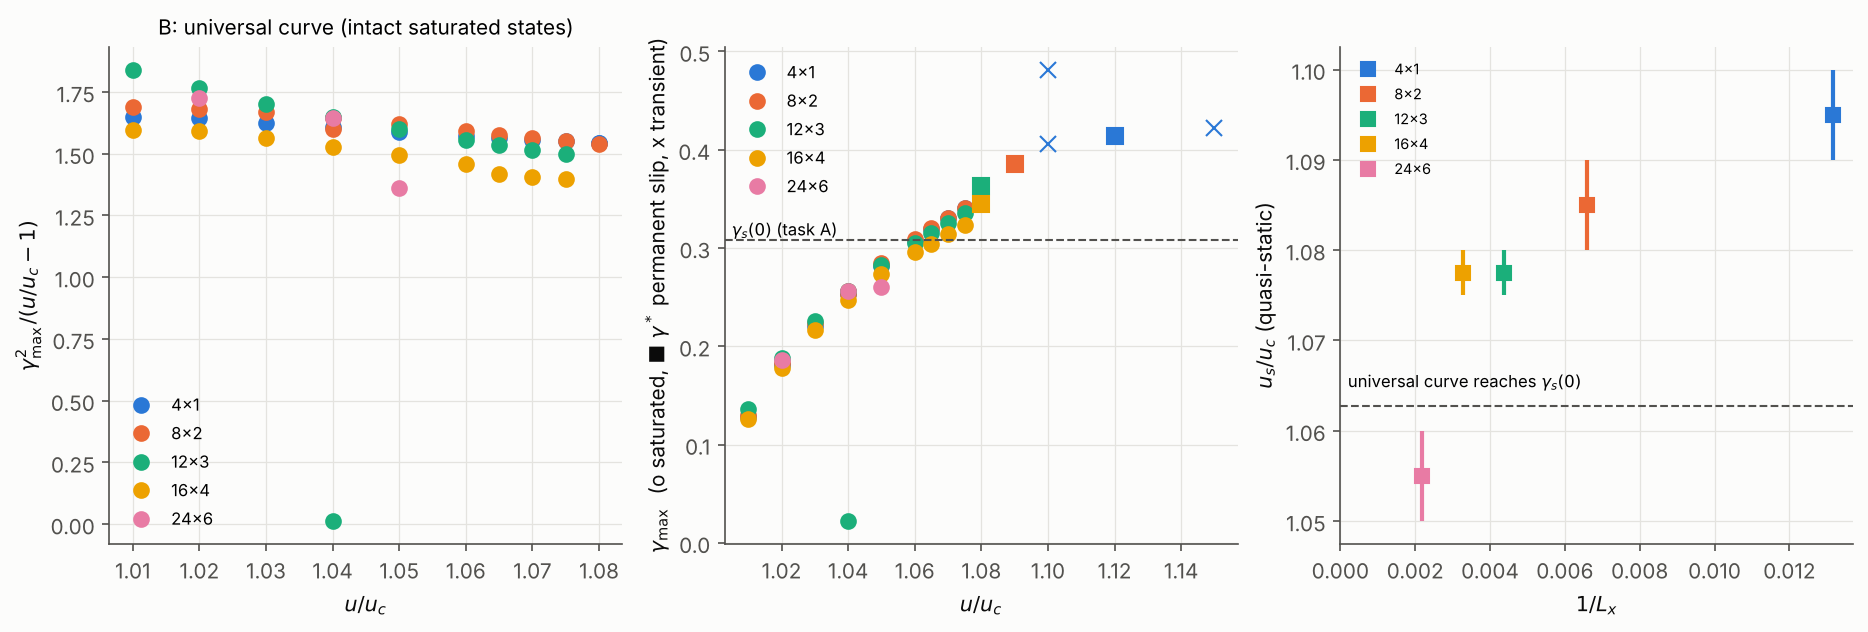
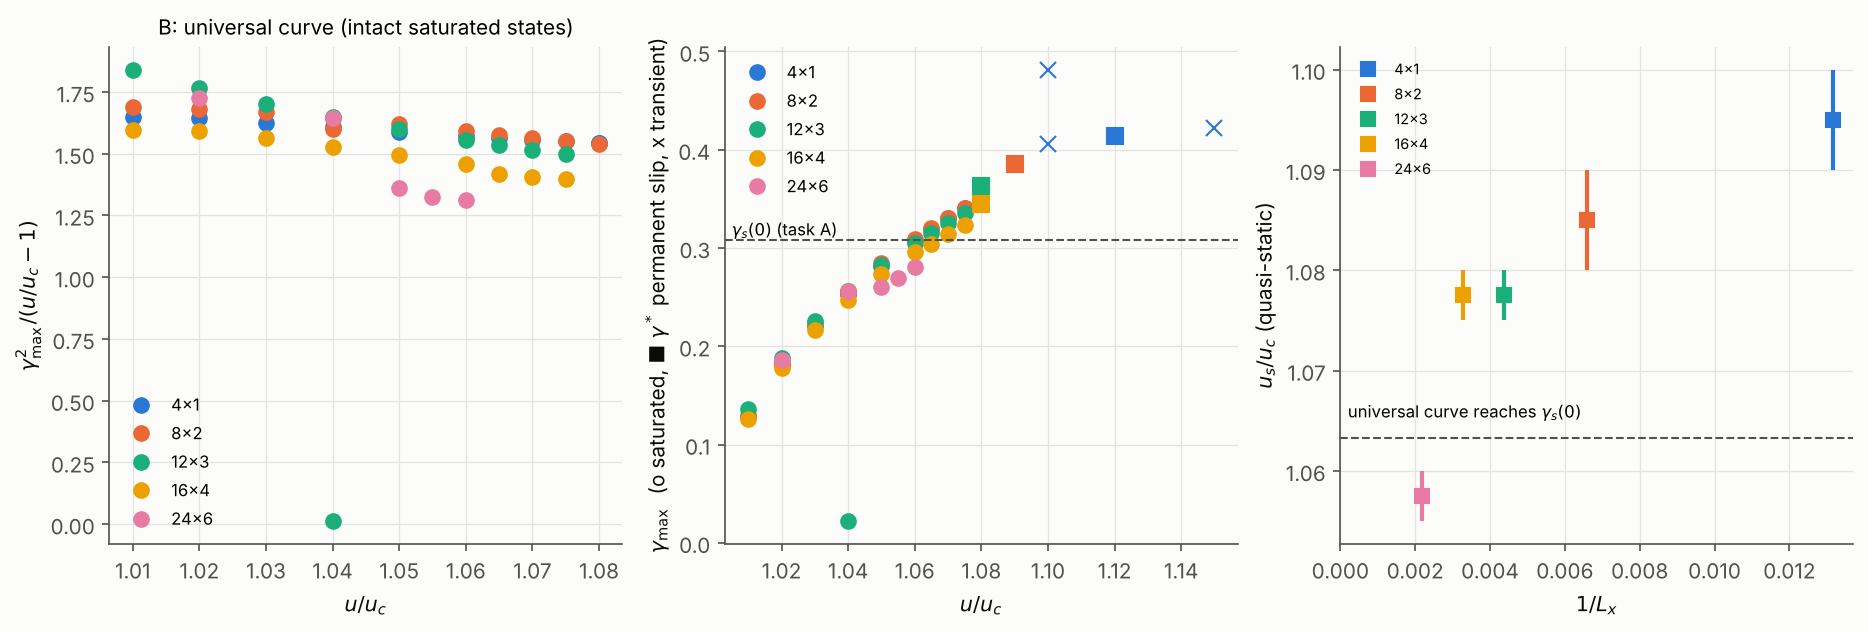
Request 2: report finalized with 24x6 status
Claude-Session: https://claude.ai/code/session_01Cr2GsgGF5EnBPWfYmErUDZ

diff --git a/results_request2/REPORT2_ko.md b/results_request2/REPORT2_ko.md
@@ -80,7 +80,7 @@
 
 | | 4×1 | 8×2 | 12×3 | 16×4 | 24×6 |
 |---|---|---|---|---|---|
-| u_s/u_c | (1.08, 1.10] (일시적 쌍극자) | (1.08, 1.09] | (1.075, 1.08] | (1.075, 1.08] | <!--U24--> |
+| u_s/u_c | (1.08, 1.10] (일시적 쌍극자) | (1.08, 1.09] | (1.075, 1.08] | (1.075, 1.08] | 연쇄 진행 중(1.06까지 온전) |
 
 - u_s/u_c는 크기와 함께 1.09 → 1.08 → 1.075–1.08로 준다. 보편 곡선이 γ_s(0) = 0.308에 닿는 u/u_c = **1.061**이 무한계 예측이다(§4.15의 1.055와 같은 크기).
 - 의뢰 1의 "u_d/u_c ≈ 1.10–1.15"는 이 크기 보정과 성장 시간 제한이 겹친 값이었다.
@@ -136,7 +136,7 @@
 - 𝒮(u)는 u ≤ 0.1에서 계산했다. 측정 비율의 혼합 H = γ(ŷx̂ᵀ + 0.57 x̂x̂ᵀ)는 정수 경계 때문에 (L_x = 38 + m, s) 쌍으로 비율 0.55–0.58의 점만 정적(u = 0)으로 계산했다(`A_S/S_mix_*.json`). γ = 0.237, 0.289에서 안정하고 0.316에서 약하게 불안정하다(+6×10⁻⁶, k ≈ (−0.024, 0.024)). 혼합 문턱은 (0.289, 0.316)으로 단순 전단의 0.308과 거의 같다. ∂_x u_x 성분은 γ_s를 크게 바꾸지 않는다(k 격자가 8×5로 거칠다).
 - γ_s(u)는 γ 3–4점의 선형 보간이다(오차 약 ±0.005).
 - 공동이동 Bloch와 실험실 좌표의 1.5–2% 차이는 이번 𝒮 계산(공동이동)에 그대로 있을 수 있다. 다만 γ_s가 u에 거의 무관하므로 영향은 작다(실험실 좌표 직접 확인은 하지 않음).
-- 24×6은 연쇄가 <!--U24NOTE-->이다. 32×8 이상은 GPU가 필요하다.
+- 24×6 준정적 연쇄는 보고서 작성 시점에 1.06까지 진행되었고 온전하다. 다만 γ = 0.261, 0.270, 0.281(1.05, 1.055, 1.06)로 평형(0.283–0.306)보다 낮다. 이완 시간이 L²로 길어져(8×2의 9배) 단계당 1.5×10⁵이 모자라기 때문이다. 그래서 24×6의 u_s는 아직 정하지 못했다. 8×2–16×4 외삽이 예측하는 24×6 γ\* ≈ 0.334가 검증 대상이며, 계산은 계속 중이다. 32×8 이상은 GPU가 필요하다.
 - 동역학 γ_max는 삼각형별 최대값이라 기록 간 ±5–10% 흔들린다. 그래서 γ\*는 5기록 평균으로 정의했다.
 
 ## 그림·파일
